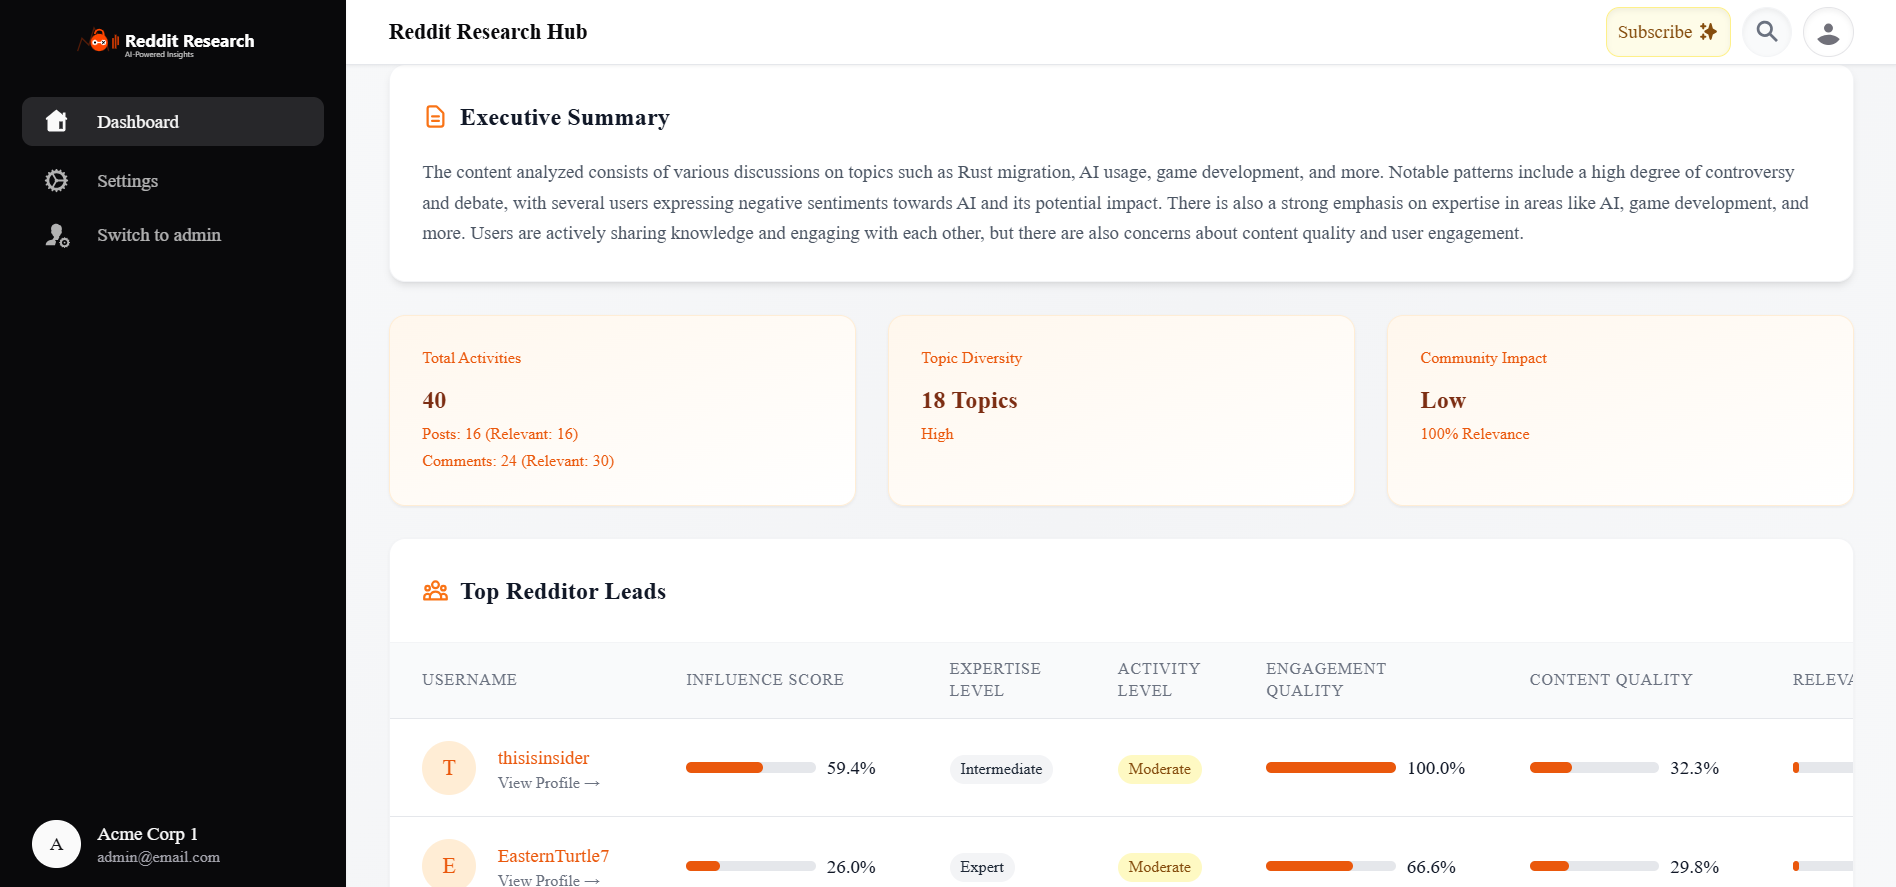
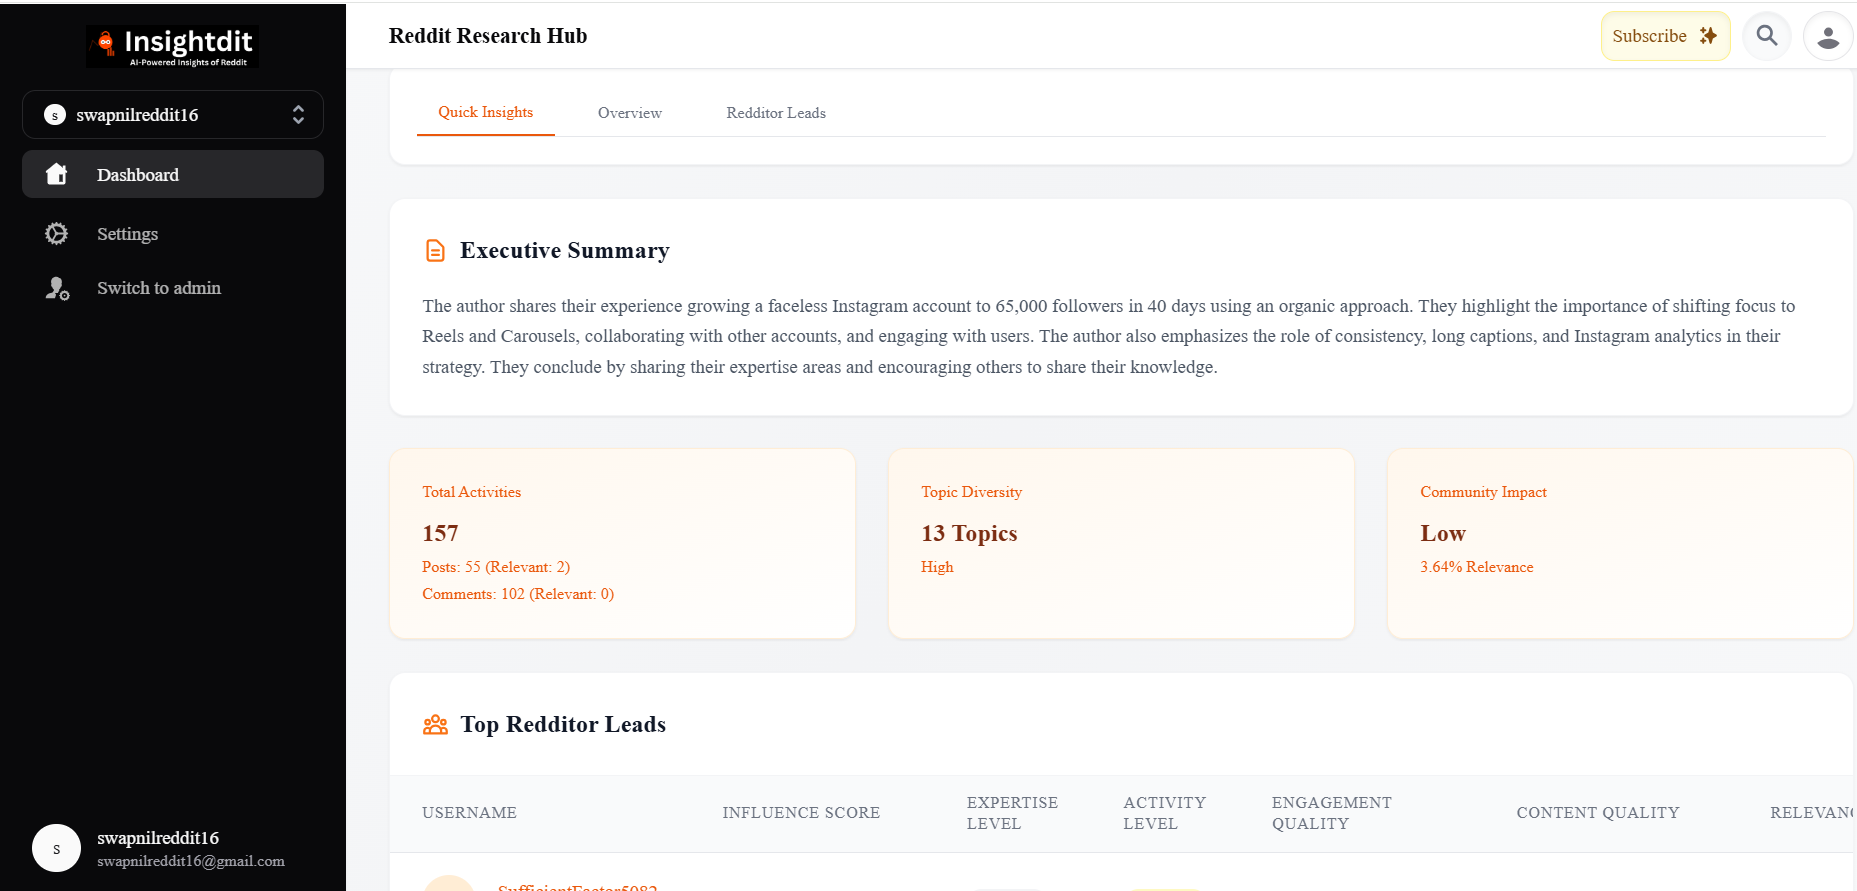
correct images

diff --git a/app/modules/pageBlocks/utils/defaultFaq.ts b/app/modules/pageBlocks/utils/defaultFaq.ts
@@ -34,15 +34,7 @@ export function defaultFaq({ t }: { t: TFunction }): FaqItemDto[] {
     {
       question: t("front.faq.questions.q8"),
       answer: t("front.faq.questions.a8"),
-    },
-    {
-      question: t("front.faq.questions.q9"),
-      answer: t("front.faq.questions.a9"),
-    },
-    {
-      question: t("front.faq.questions.q10"),
-      answer: t("front.faq.questions.a10"),
-    },
+    }
   ];
   return items;
 }
